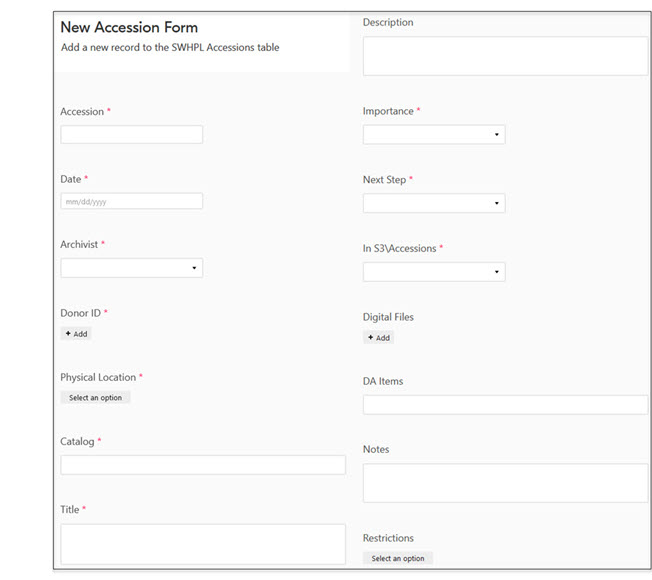
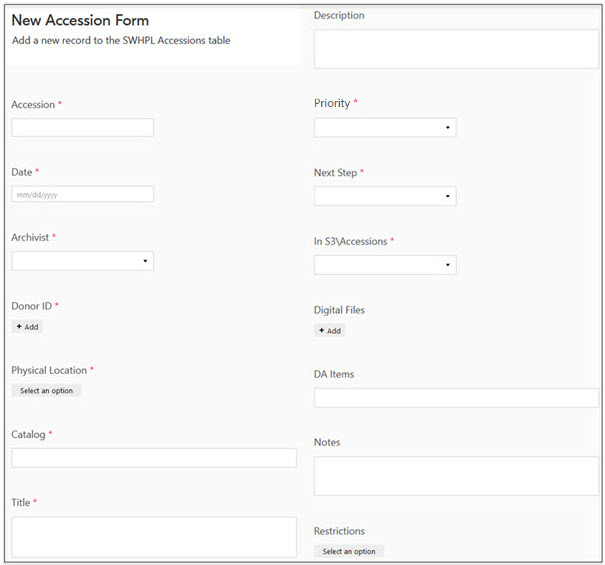
More updates.

diff --git a/digital-archive/docs/archivist/accessioning.md b/digital-archive/docs/archivist/accessioning.md
@@ -25,7 +25,6 @@ At SWHPL (pronounced *swiple*, rhymes with *triple*), *accessioning* is the proc
 -   [How To](#how-to)
     -   [Add a new accession to the **_Accessions_** table](#add-a-new-accession-to-the-accessions-table)
     -   [Choose an accession's next step](#choose-an-accessions-next-step)
-    -   [Add a new task to the **_Tasks_** table](#add-a-new-task-to-the-tasks-table)
     -   [Add a new donor to the **_Donors_** table](#add-a-new-donor-to-the-donors-table)
     -   [Add a note to an accession record](#add-a-note-to-an-accession-record)
     -   [Deaccession an accession](#deaccession-an-accession)
@@ -521,6 +520,18 @@ Sub-accessions appear in the **_Accessions_** table immediately below their prim
 
 ![image](accessioning-21.jpg)
 
+#### Prioritizing accessions
+The **_Accessions_** table contains a **_Priority_** field that is set by the curator to rank an accession relative to other accessions with
+regard to when the accession should get attention. The priority values 1 to 5 represent lowest to highest priority, except for 0 which means not yet determined.
+A way to think about the values 1 to 5 is: lowest, low, medium, high, and highest priority. Very few accessions should have priority 5. Only
+use 5 to identify accessions that should soon make their way into the [**_Task_** table](#tasks-table). An accession with priority 1 is so unimportant
+that perhaps it should be deaccessioned.
+
+An accession's priority should not be interpreted to indicate its importance within the collection, though that is usually the case. The curator may
+temporarily assign a high priority to accessions of lower importance for administrative purposes. For example, while assessing a set of accessions to
+determine their importance, the curator may set the priority of each to 5 so that they can then view all the accessions grouped by priority and have
+those accessions all appear in the same group.
+
 ### Deaccessions table
 The **_Deaccessions_** table is used to keep a record of which accessions have been deaccessioned. A deaccessioned record still
 exists in the **_Accessions_** table so that information about it is never lost, but the **_Accessions_** table is normally filtered
@@ -738,24 +749,6 @@ Step                        | Meaning       | Workflow
 **_None_**   | Additional work could be performed on the accession, such as scanning, but the items do not warrant further effort.
 **_Completed_**   | All the steps for the accession have been performed and there is nothing else to do.
 
---- 
-
-### Add a new task to the Tasks table
-Follow these steps to add a new record to the **_Tasks_** table.
-
--   View the **_Tasks_** table in Airtable.
--   In the **_Views_** sidebar, click  **_New Task Form_**.
--   Click the **_Open form_** button in the top menu (red arrow in screenshot below).
-
-    ![image](accessioning-17.jpg)
-
--   A form like in the screenshot below appears.
--   Fill in the fields.
--   Click the **_Submit_** button at the bottom of the form.
--   A new record will be added to the **_Tasks_** table.
-
-![image](accessioning-10.jpg)
-
 ---
 
 ### Add a new donor to the Donors table
@@ -961,15 +954,16 @@ See [creating PDFs from scans](/archivist/creating-pdfs/).
 ### Epson scanner software
 SWHPL uses Epson scanners and Epson drivers and programs.
 
-https://epson.com/Support/Scanners/Perfection-Series/Epson-Perfection-V600-Photo/s/SPT_B11B198011
+To install the software on a PC, download the scanner driver and Epson Scan Utility for your scanner.
+The driver and software for the Epson V600 scanner is available [here](https://epson.com/Support/Scanners/Perfection-Series/Epson-Perfection-V600-Photo/s/SPT_B11B198011).
 
--   Download
--   Open .exe file
--   Install
+After you download the software:
 
-RUn the app
--   Choose `Professional Mode`
--   
+-   Open the `.exe` file
+-   follow the installation steps
+-   Run the program using Professional Mode
+
+Learn about [scanning](/archivist/scanning/#scanning).
 
 
 ### IrfanView
